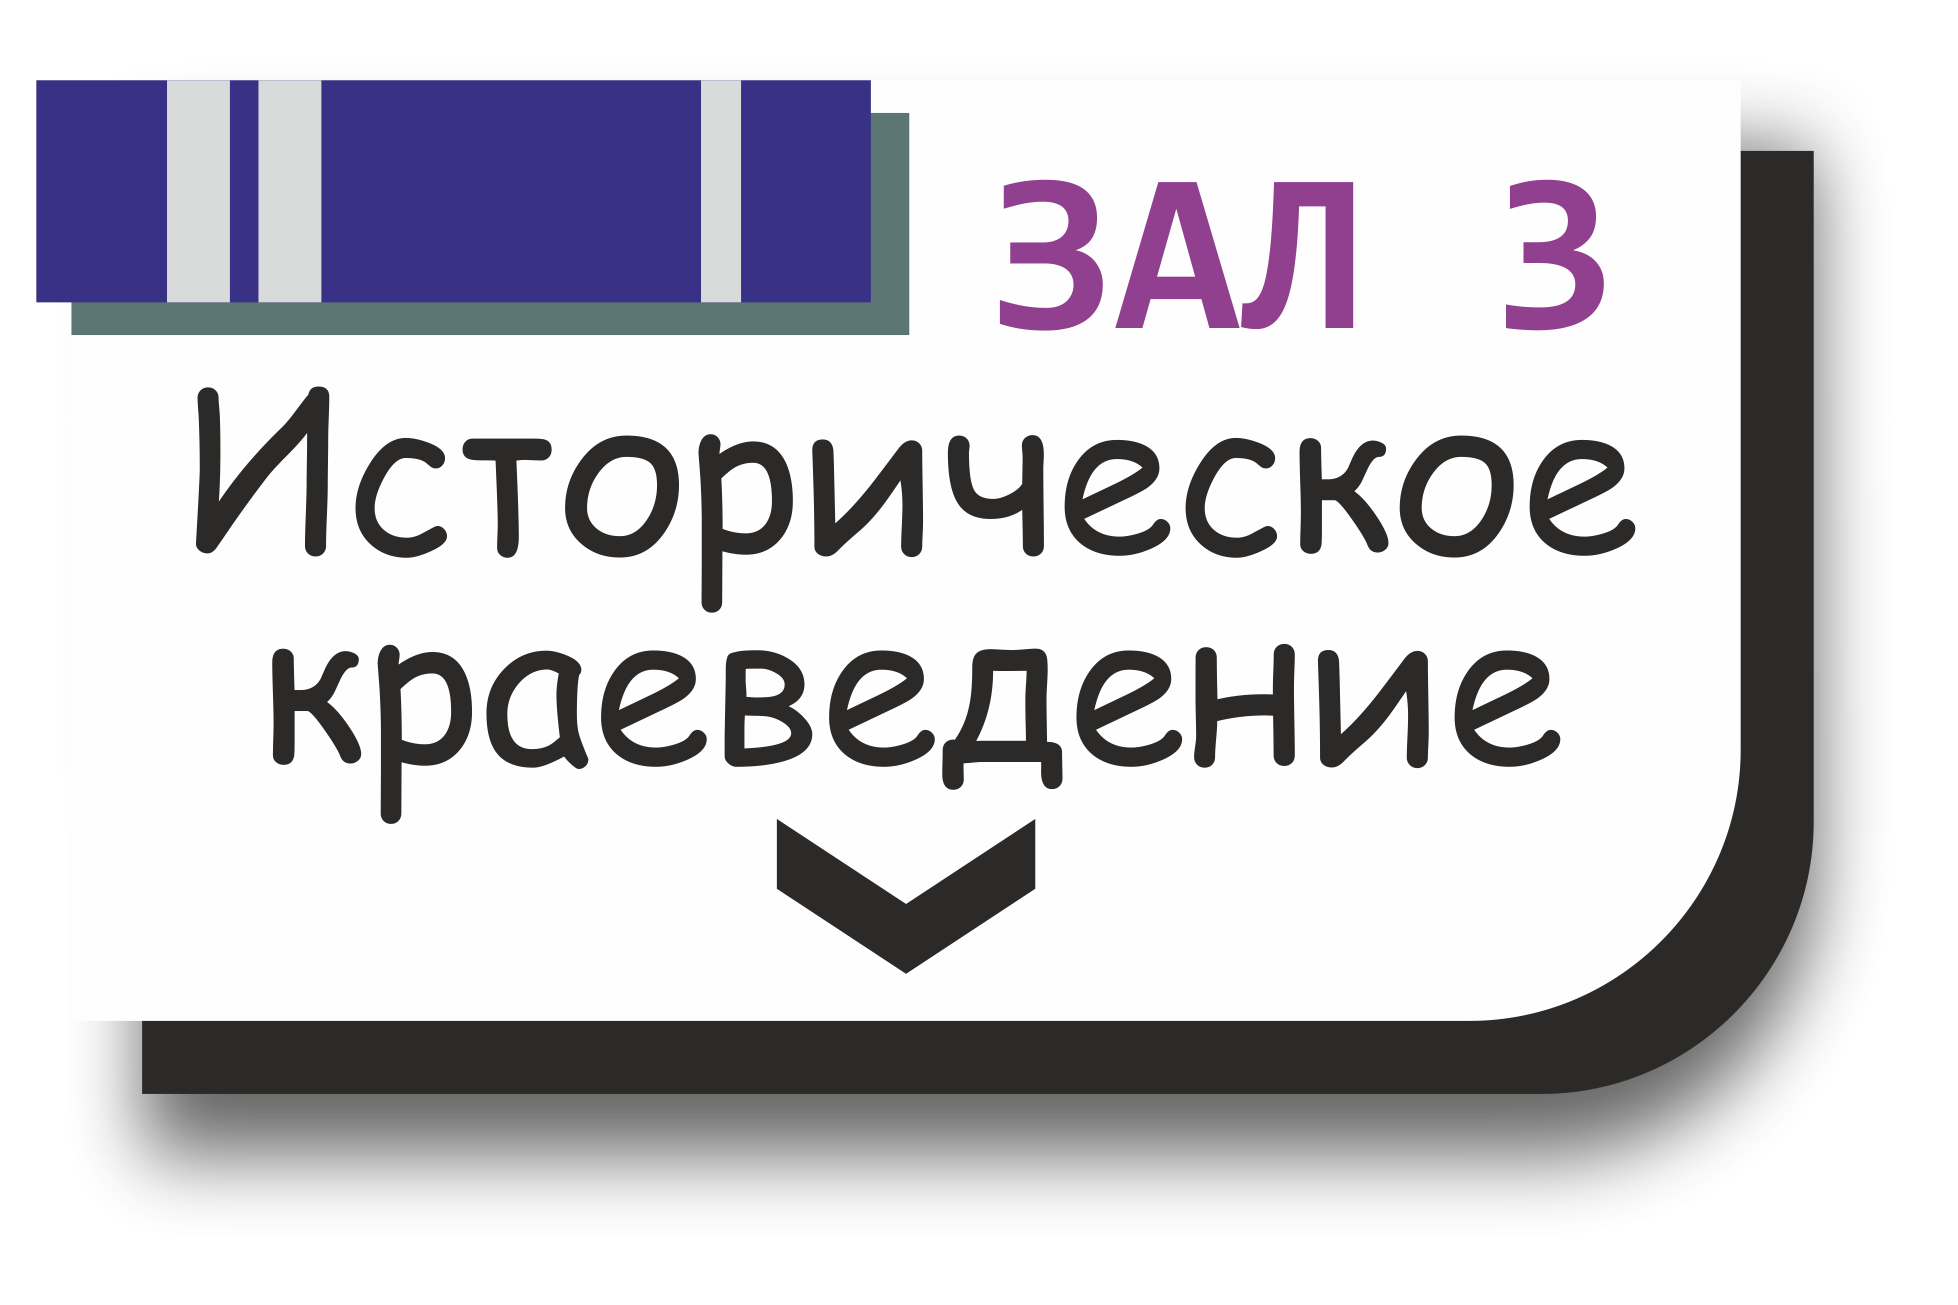
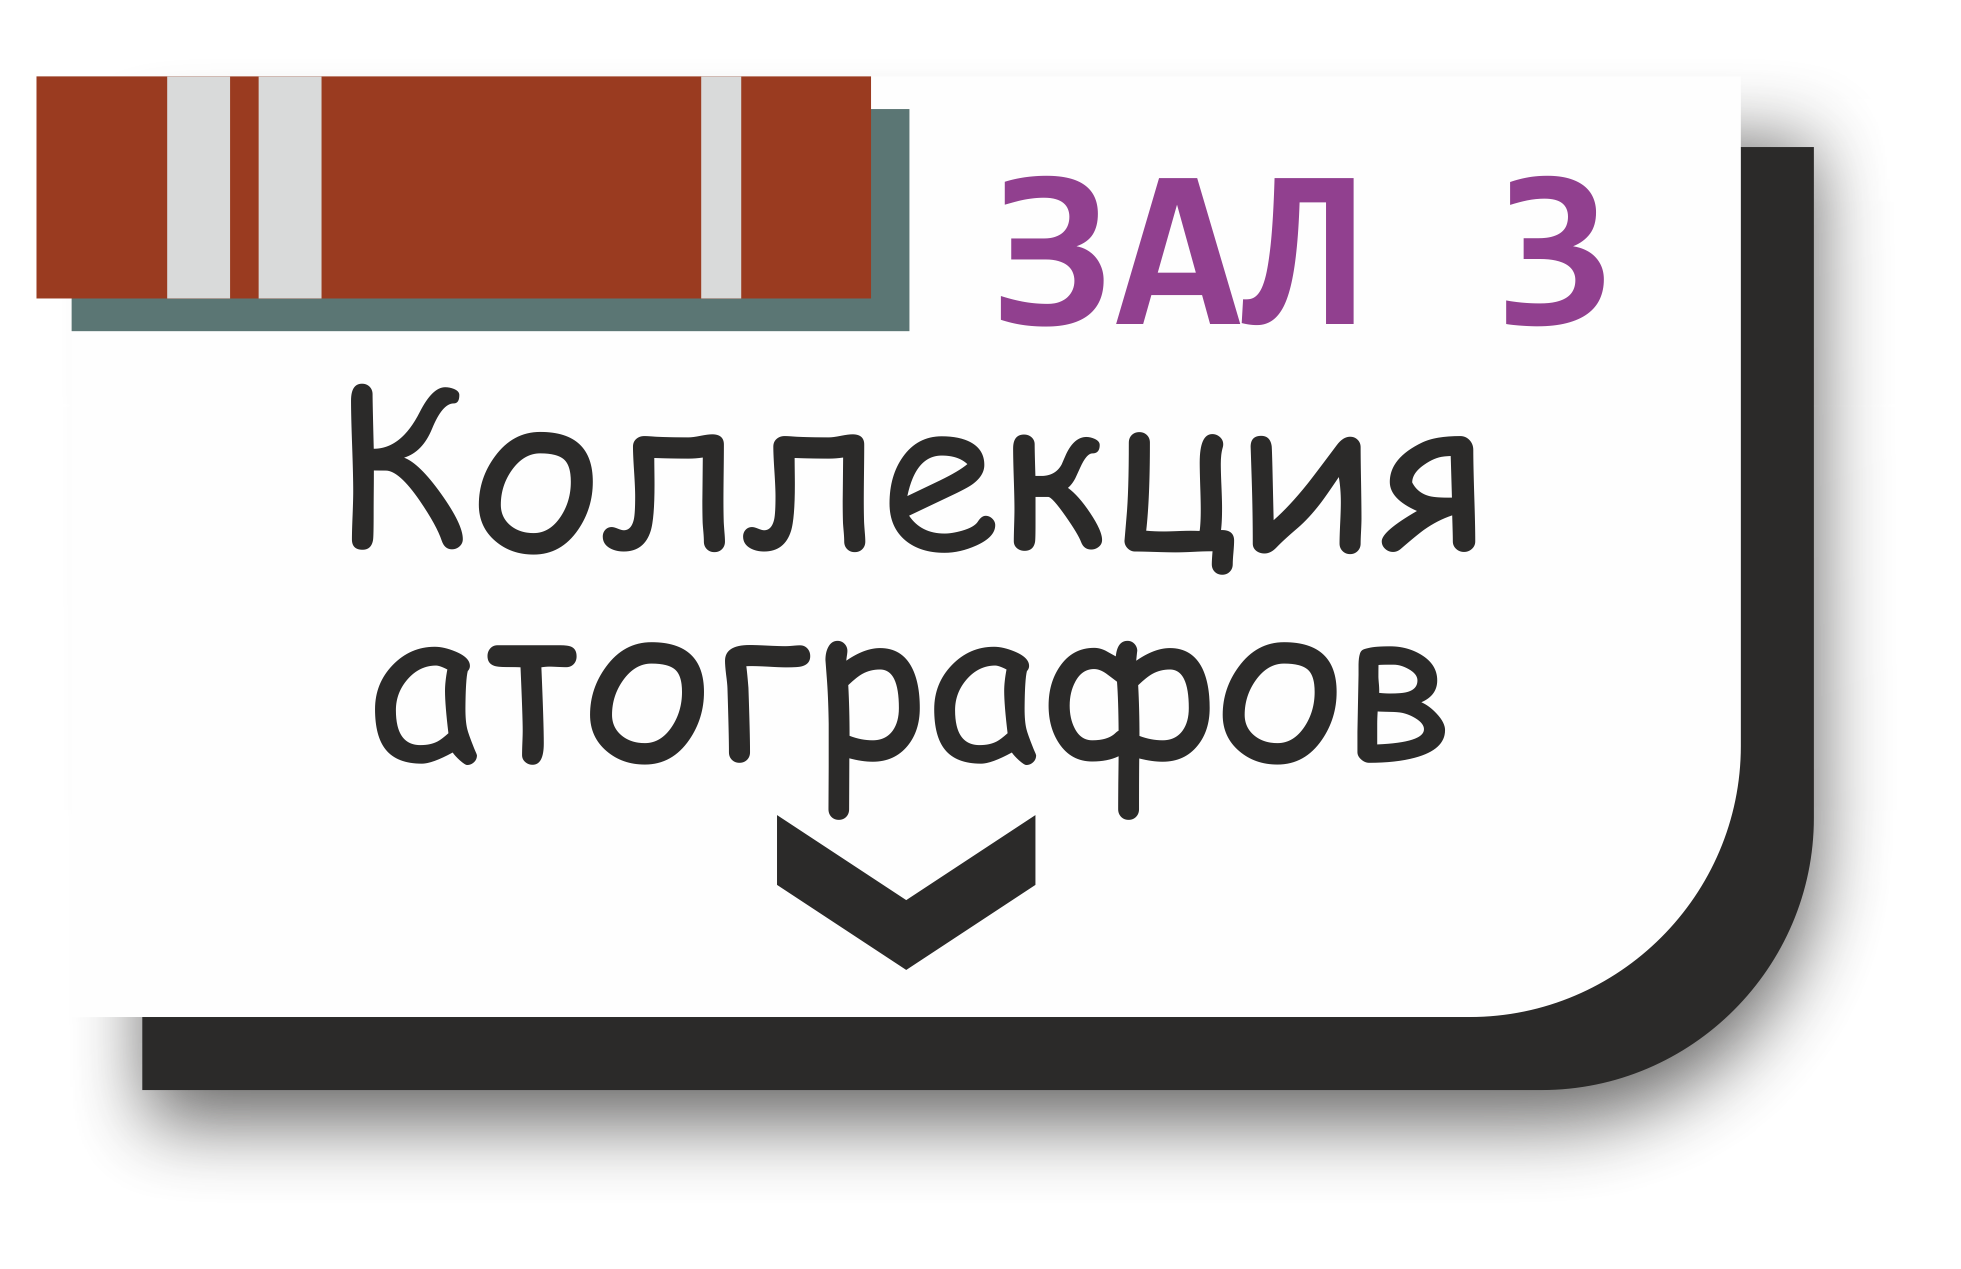
newhalladded

diff --git a/src/routes/index.js b/src/routes/index.js
@@ -23,6 +23,15 @@ const halls = [
     },
     {
         id: 3,
+        name: 'Коллекция автографов',
+        description: 'Дарственные книги',
+        route: '/hall/autograf-artifacts',
+        position: { top: '67%', left: '15%' }, // Правый нижний угол со смещением
+        width: '23%',
+        height: '28%'
+    },
+    {
+        id: 4,
         name: 'Историческое краеведение',
         description: 'Знакомство с историческими артефактами',
         route: '/hall/historical-artifacts',
